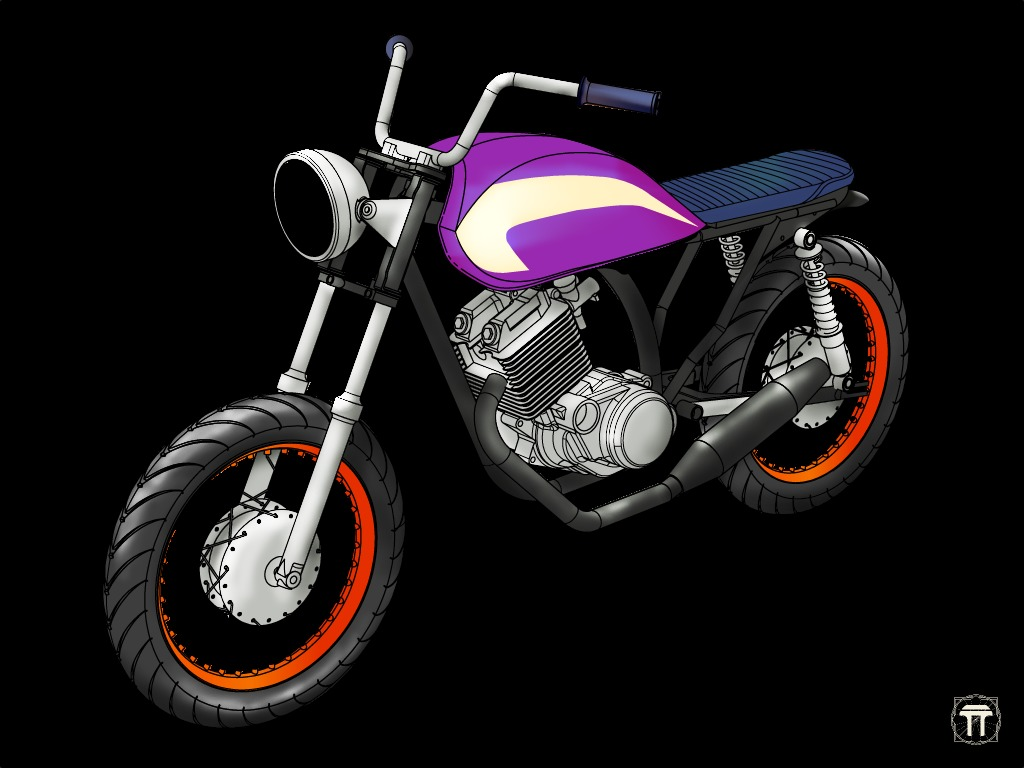
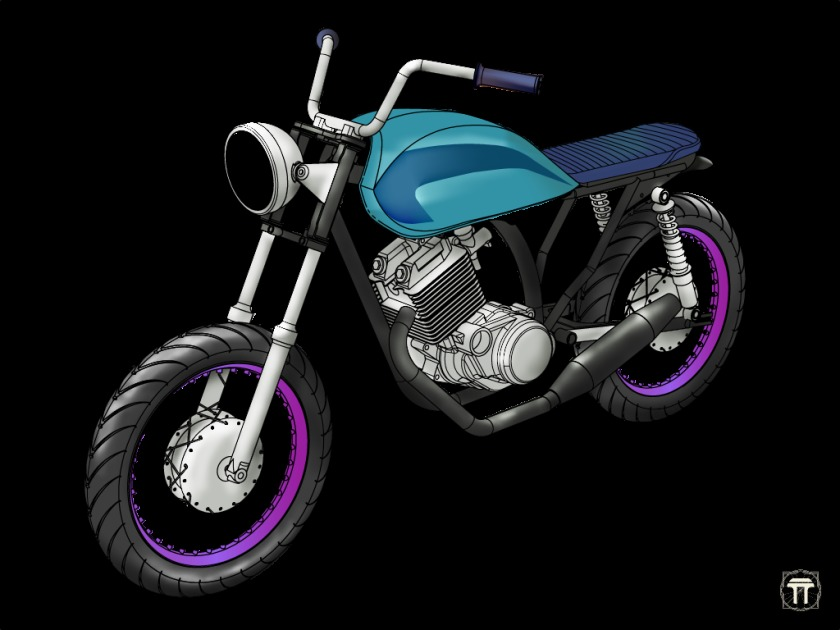
new size moto custom. Message in home is visible again

diff --git a/app/assets/stylesheets/custom.css.scss b/app/assets/stylesheets/custom.css.scss
@@ -44,6 +44,10 @@ textarea {
   background-color:$white;
   margin-bottom: 50px;
 }
+.alert {
+  display: block;
+}
+
 /* typography */
 
 h1, h2, h3, h4, h5, h6 {
@@ -275,7 +279,7 @@ input {
   margin-top: 0px;
 }
 .header-unit-0 {
-  margin-top: -50px;
+  margin-top: -30px;
   margin-bottom: 50px;
   height: 600px;
   border: 2px solid #000;

diff --git a/app/controllers/custom_apps_controller.rb b/app/controllers/custom_apps_controller.rb
@@ -128,6 +128,7 @@ class CustomAppsController < ApplicationController
       capa_6 = Magick::Image.read( logo ).first
       capa_7 = Magick::Image.read( base ).first
       capa_1.composite!(capa_2.composite!(capa_3.composite!( capa_4.composite!( capa_5.composite!(capa_6.composite!(capa_7, 0,0, Magick::OverCompositeOp ), 0,0, Magick::OverCompositeOp ),0,0, Magick::OverCompositeOp), 0,0, Magick::OverCompositeOp ), 0,0, Magick::OverCompositeOp ), 0,0, Magick::OverCompositeOp ) 
+      capa_1 = capa_1.scale(840, 630)
       capa_1.write("app/assets/images/imagem_temporal_moto.jpg")
 
       File.open(File.join(Rails.root,"/app/assets/images/imagem_temporal_moto.jpg")) do |f|
